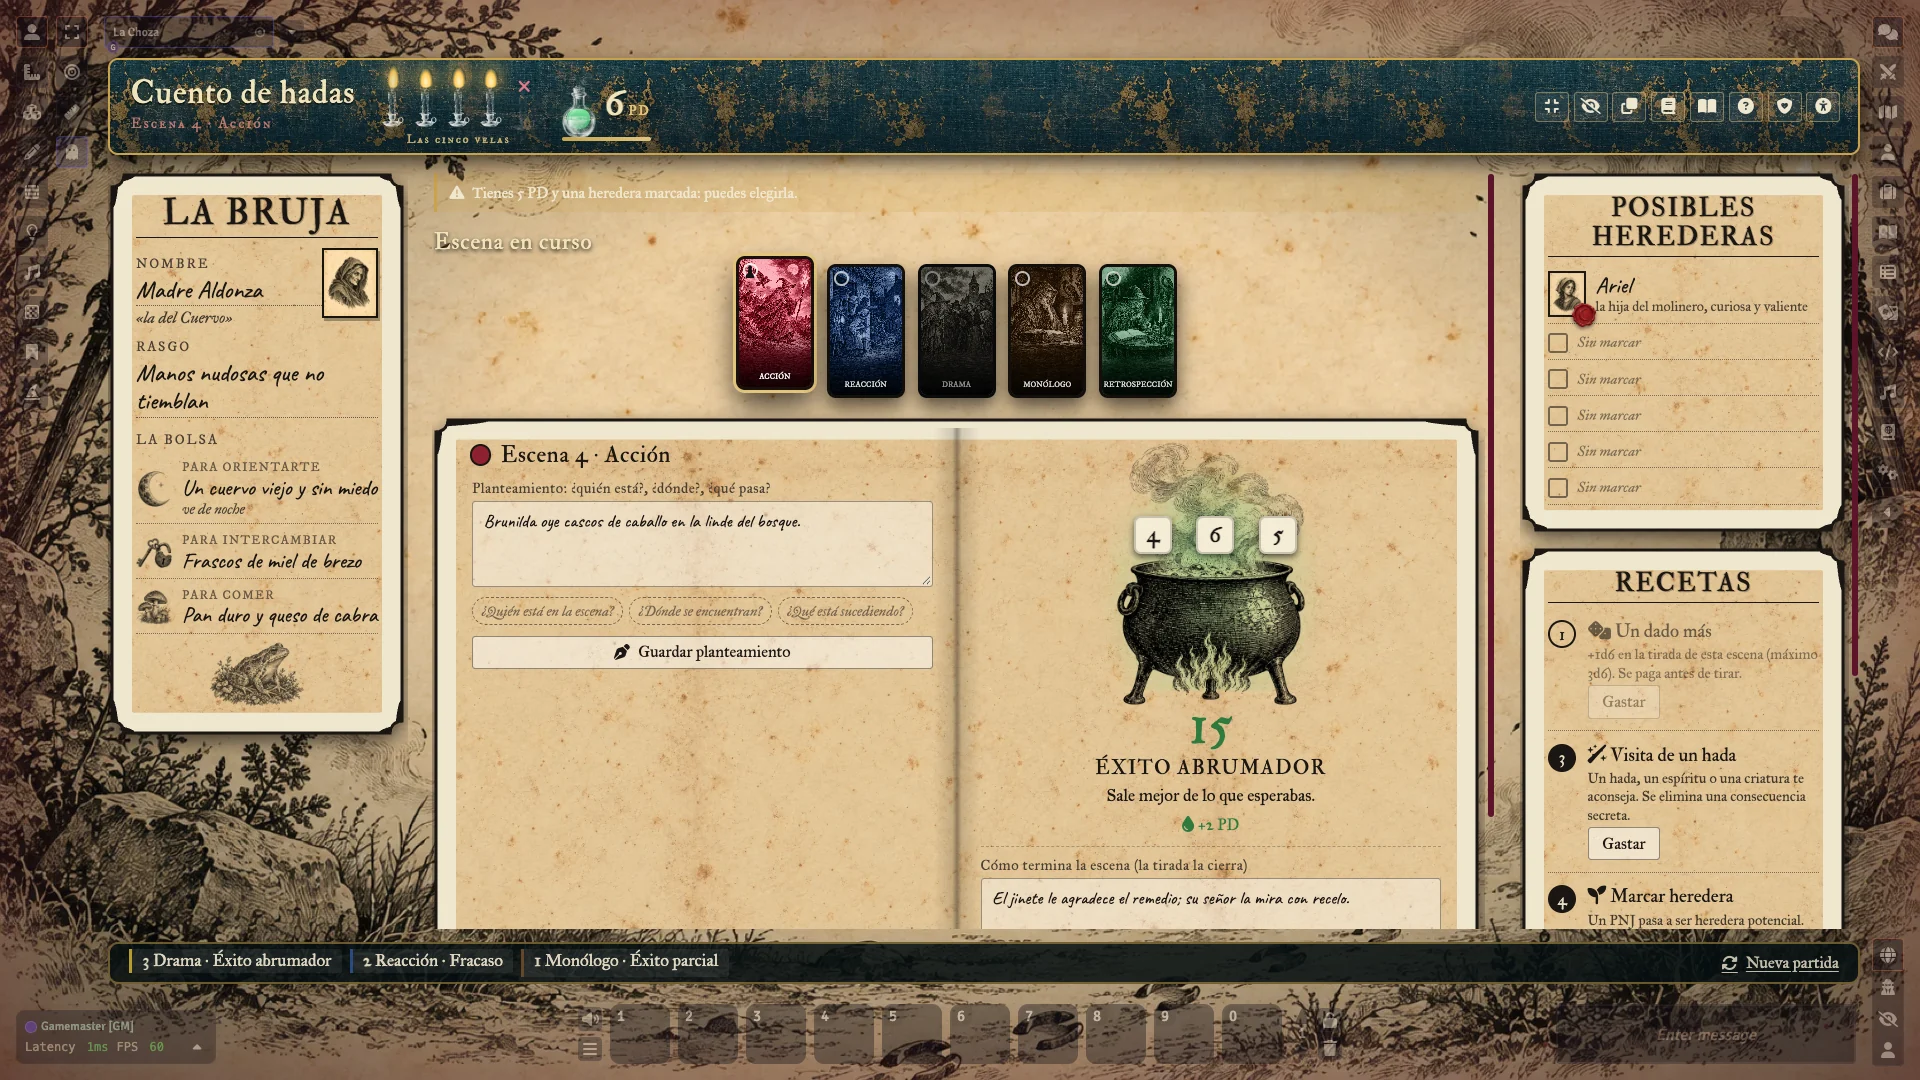
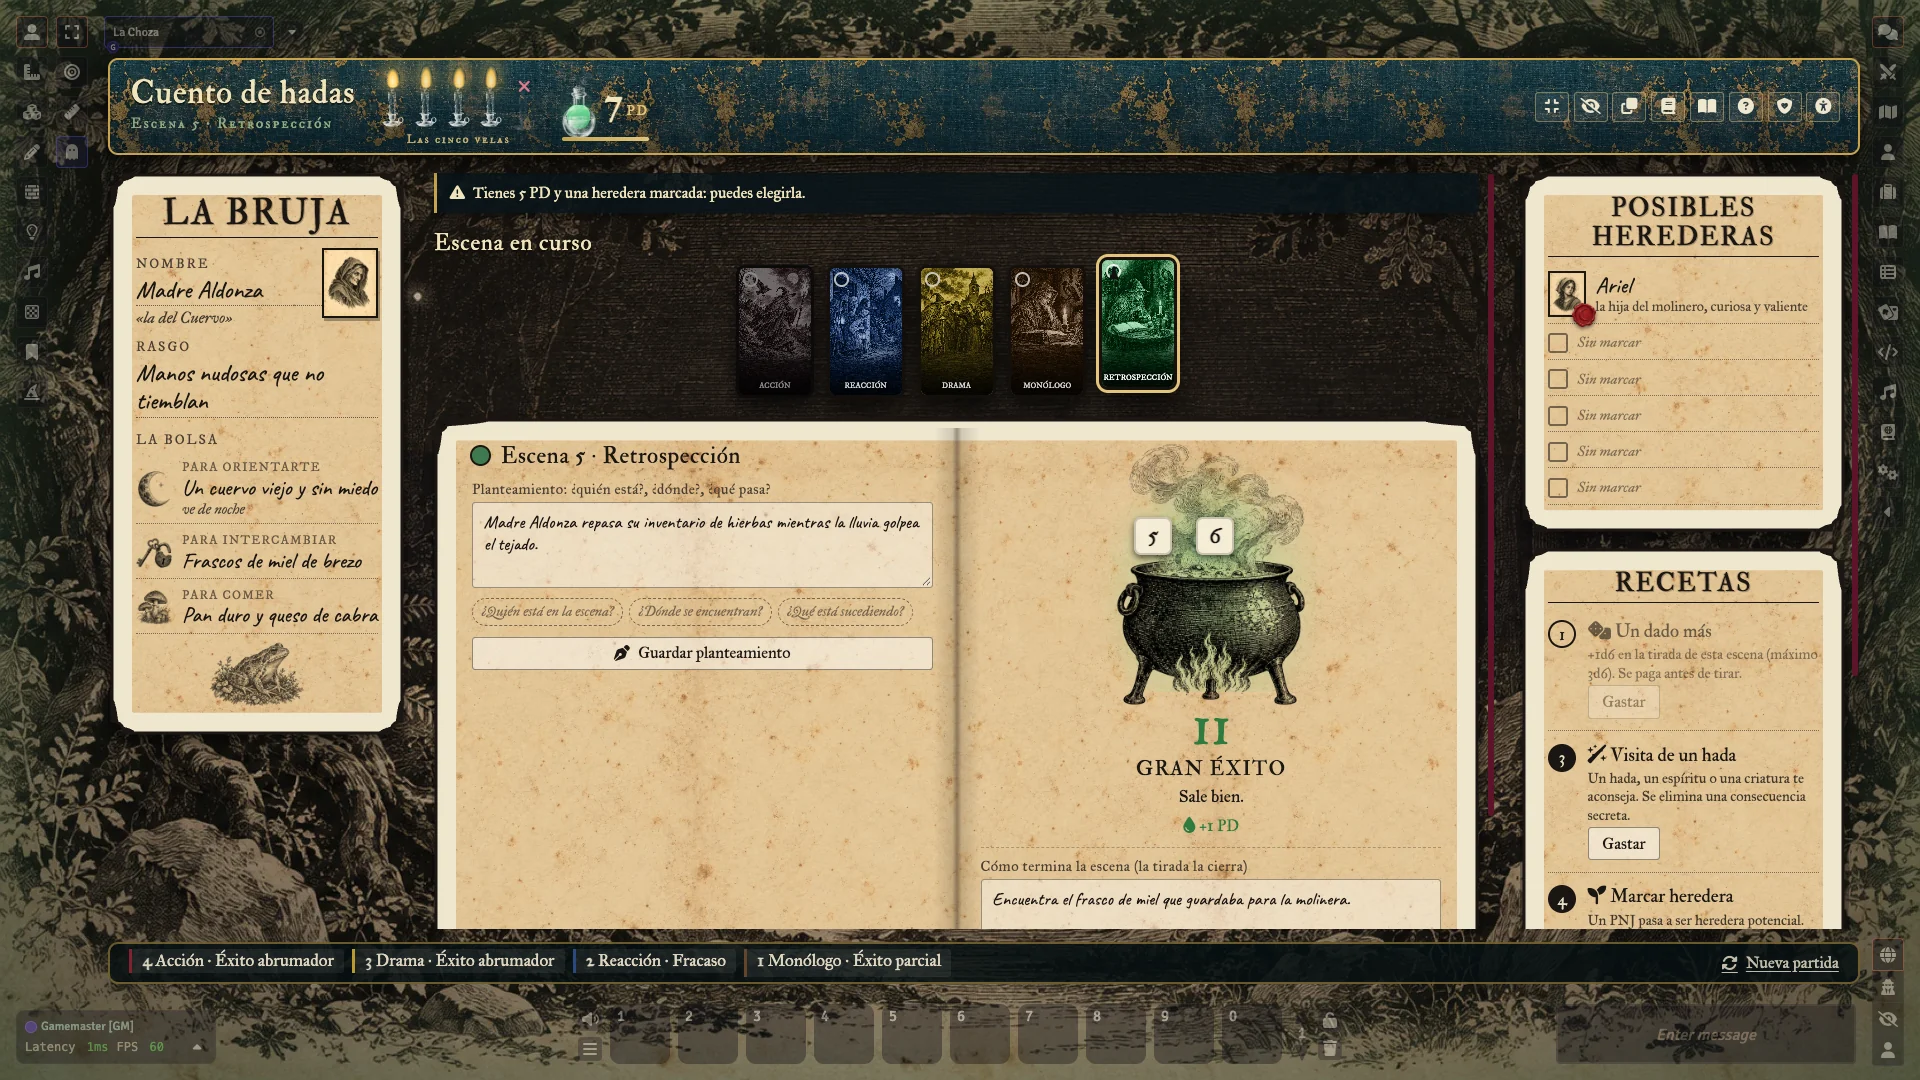
fix: 0.3.1 — la mesa a pantalla completa deja ver la escena de fondo
Capa transparente con velo, cobertura de la escena reaplicada y opción de fondo de madera.

diff --git a/styles/system.css b/styles/system.css
@@ -418,6 +418,18 @@
   .br-choza-fs .br-board.with-sides { grid-template-columns: 206px minmax(0, 1fr) 228px; gap: .8rem; }
   .br-choza-fs .br-hud { gap: 1rem; } .br-choza-fs .br-hud-title h1 { font-size: 1.5em; }
 }
+
+/* Integrada con el fondo: a pantalla completa la capa es transparente y se ve la escena de Foundry detrás.
+   Un velo la asienta (claro u oscuro) y deja respirar los paneles. La mesa de madera solo sale si no hay escena
+   con imagen o si se prefiere (Accesibilidad → «Fondo de madera»). */
+.br-choza-fs:not(.br-fondo-madera) .br-choza { background: transparent; }
+.br-choza-fs:not(.br-fondo-madera) .br-choza::before { background: none; }
+.br-choza-fs:not(.br-fondo-madera) .br-choza::after {
+  background: radial-gradient(ellipse at 50% 45%, rgba(8, 14, 14, .05) 35%, rgba(4, 9, 9, .55) 100%), rgba(10, 14, 14, .16);
+}
+.br-dark .br-choza-fs:not(.br-fondo-madera) .br-choza::after {
+  background: radial-gradient(ellipse at 50% 45%, rgba(3, 7, 7, .38) 30%, rgba(2, 5, 5, .8) 100%), rgba(4, 9, 9, .52);
+}
 /* Pastilla para recuperar la mesa cuando está oculta */
 .br-pastilla { position: fixed; left: 50%; transform: translateX(-50%); z-index: 21; display: inline-flex; align-items: center; gap: .6em; padding: .5em 1.3em; border-radius: 999px; cursor: pointer;
   font-family: var(--br-serif); font-size: 15px; color: #1b1612; background: var(--br-oro); border: 2px solid var(--br-oro-2); box-shadow: 0 6px 18px rgba(0, 0, 0, .6); }
@@ -591,7 +603,9 @@
 .br-dark .mr-br .br-total { color: #e07a8a; } .br-dark .mr-br .br-result.nivel-granExito .br-total, .br-dark .mr-br .br-result.nivel-abrumador .br-total { color: #8fd09b; } .br-dark .mr-br .br-result.nivel-parcial .br-total { color: #e8c05a; }
 .br-dark .mr-br .br-gains .pd { color: #8fd09b; } .br-dark .mr-br .br-gains .cons { color: #e07a8a; }
 .br-dark .mr-br .br-dice-count, .br-dark .mr-br .br-use-line.granted i { color: #8fd09b; }
-.br-dark .mr-br .br-choza::before { filter: brightness(.34) saturate(.8); }
+.br-dark .mr-br .br-choza::before { filter: brightness(.6) saturate(.9); }
+.br-dark .mr-br .br-choza[data-bg=mood]::before { filter: brightness(.42) saturate(.8); }
+.br-dark .mr-br .br-choza[data-bg=table]::before { filter: brightness(.85) saturate(.95); }
 .br-dark .mr-br .br-panel { background: rgba(6, 16, 20, .92); }
 .br-dark .mr-br .br-card-art img { opacity: .8; }
 .br-dark .mr-br .br-hand, .br-dark .mr-br .br-final-text { color: #e6dcc3; }

diff --git a/CHANGELOG.md b/CHANGELOG.md
@@ -1,5 +1,11 @@
 # Cambios
 
+## 0.3.1 · 2026-10-10
+
+- **La mesa a pantalla completa se integra con el fondo**: la capa es transparente y se ve la escena de Foundry detrás de los paneles (antes era una mesa opaca que la tapaba, y en modo oscuro quedaba casi negra). Un velo asienta el conjunto, claro u oscuro. La mesa de madera queda como respaldo cuando la escena no tiene imagen y como opción: Accesibilidad → «Fondo de madera».
+- La escena de bienvenida **cubre toda la pantalla** sin bandas: se aplica al arrancar, tras cada reencuadre de Foundry y cuando el ratón mueve o amplía el lienzo por debajo de la mesa.
+- En modo oscuro, los fondos de la ventana ya no se apagan hasta el negro (se oscurecen según sean mesa, ambiente de escena o lugar).
+
 ## 0.3.0 · 2026-10-10
 
 - **Mesa a pantalla completa**: la Choza puede ocupar toda la pantalla, por encima del lienzo y por debajo de los controles de Foundry y de las ventanas. Mide la barra lateral y las macros, deja pasar el ratón fuera de sus paneles, se oculta con el ojo y se recupera con una pastilla fija o con la herramienta de la escena.
